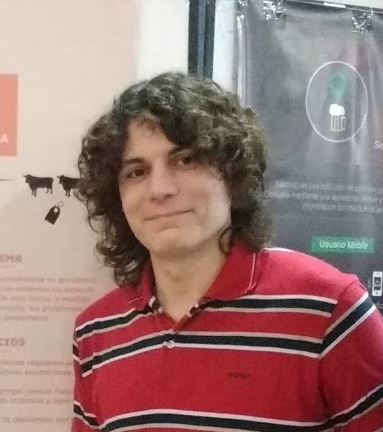
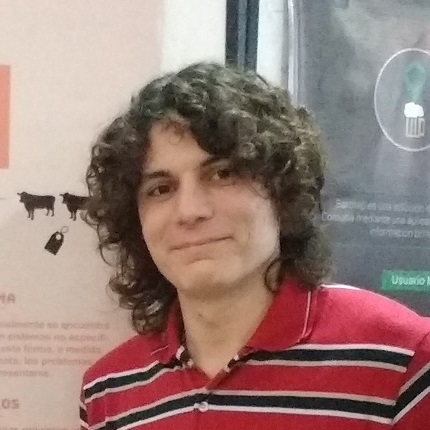
Se cambian imagenes landing page

diff --git a/sgg-farmix-web/wwwroot/app/landing/landing.html b/sgg-farmix-web/wwwroot/app/landing/landing.html
@@ -60,25 +60,25 @@
             <br>
 
             <div class="w3-quarter">
-                <img src="../../images/lucas.jpg" alt="Boss" style="width:45%" class="w3-circle w3-hover-opacity">
+                <img src="../../images/lucas.jpg" alt="Desarrollador" style="width:50%" class="w3-circle w3-hover-opacity">
                 <h3>Lucas Lissandrello</h3>
                 <p>Mobile Developer / Technical Manager</p>
             </div>
 
             <div class="w3-quarter">
-                <img src="../../images/jere.jpg" alt="Boss" style="width:45%" class="w3-circle w3-hover-opacity">
+                <img src="../../images/jere.jpg" alt="Desarrollador" style="width:55%" class="w3-circle w3-hover-opacity">
                 <h3>Jeremías Ordoñez</h3>
                 <p>DBA / Mobile Developer</p>
             </div>
 
             <div class="w3-quarter">
-                <img src="../../images/mati.jpg" alt="Boss" style="width:45%" class="w3-circle w3-hover-opacity">
+                <img src="../../images/mati.jpg" alt="Desarrollador" style="width:55%" class="w3-circle w3-hover-opacity">
                 <h3>Matías Pavan</h3>
                 <p>Web Developer</p>
             </div>
 
             <div class="w3-quarter">
-                <img src="../../images/fede.jpg" alt="Boss" style="width:45%" class="w3-circle w3-hover-opacity">
+                <img src="../../images/fede.jpg" alt="Desarrollador" style="width:55%" class="w3-circle w3-hover-opacity">
                 <h3>Federico Prado Macat</h3>
                 <p>Web Developer</p>
             </div>
